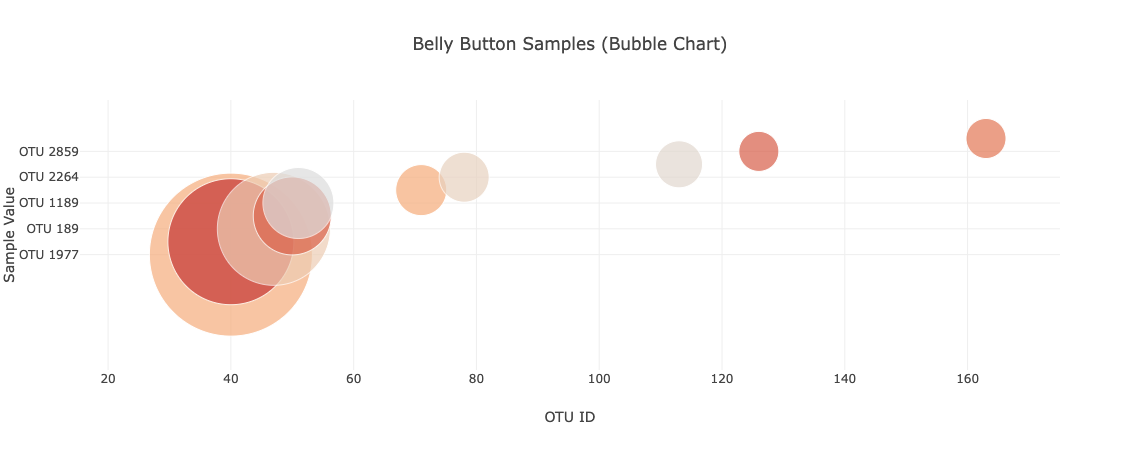
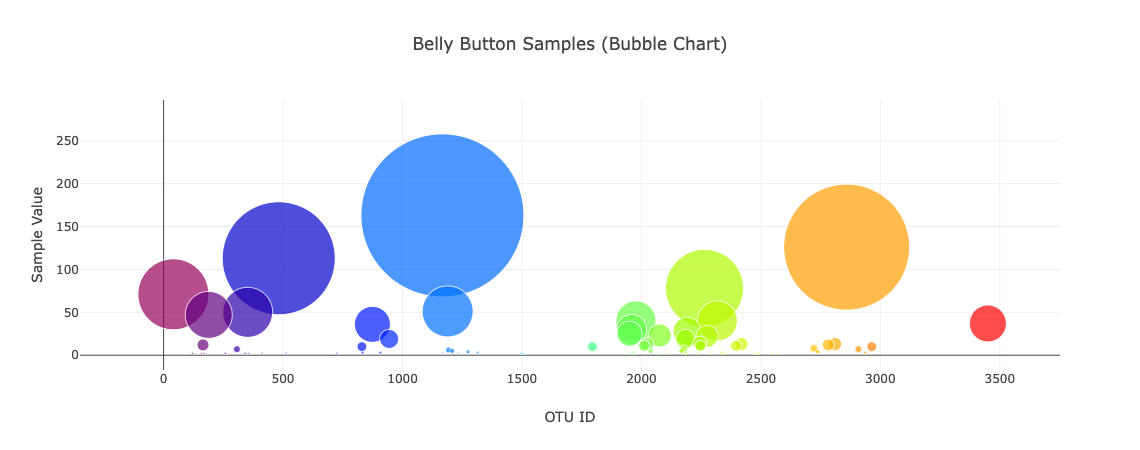
Update final files

diff --git a/static/js/app.js b/static/js/app.js
@@ -69,7 +69,7 @@ d3.json(datafile).then((data => {
         mode: 'markers',
         marker: {
             color: otu_ids,
-            colorscale: "Dark2",
+            colorscale: "Rainbow",
             size: s_values,
         }
     }];
